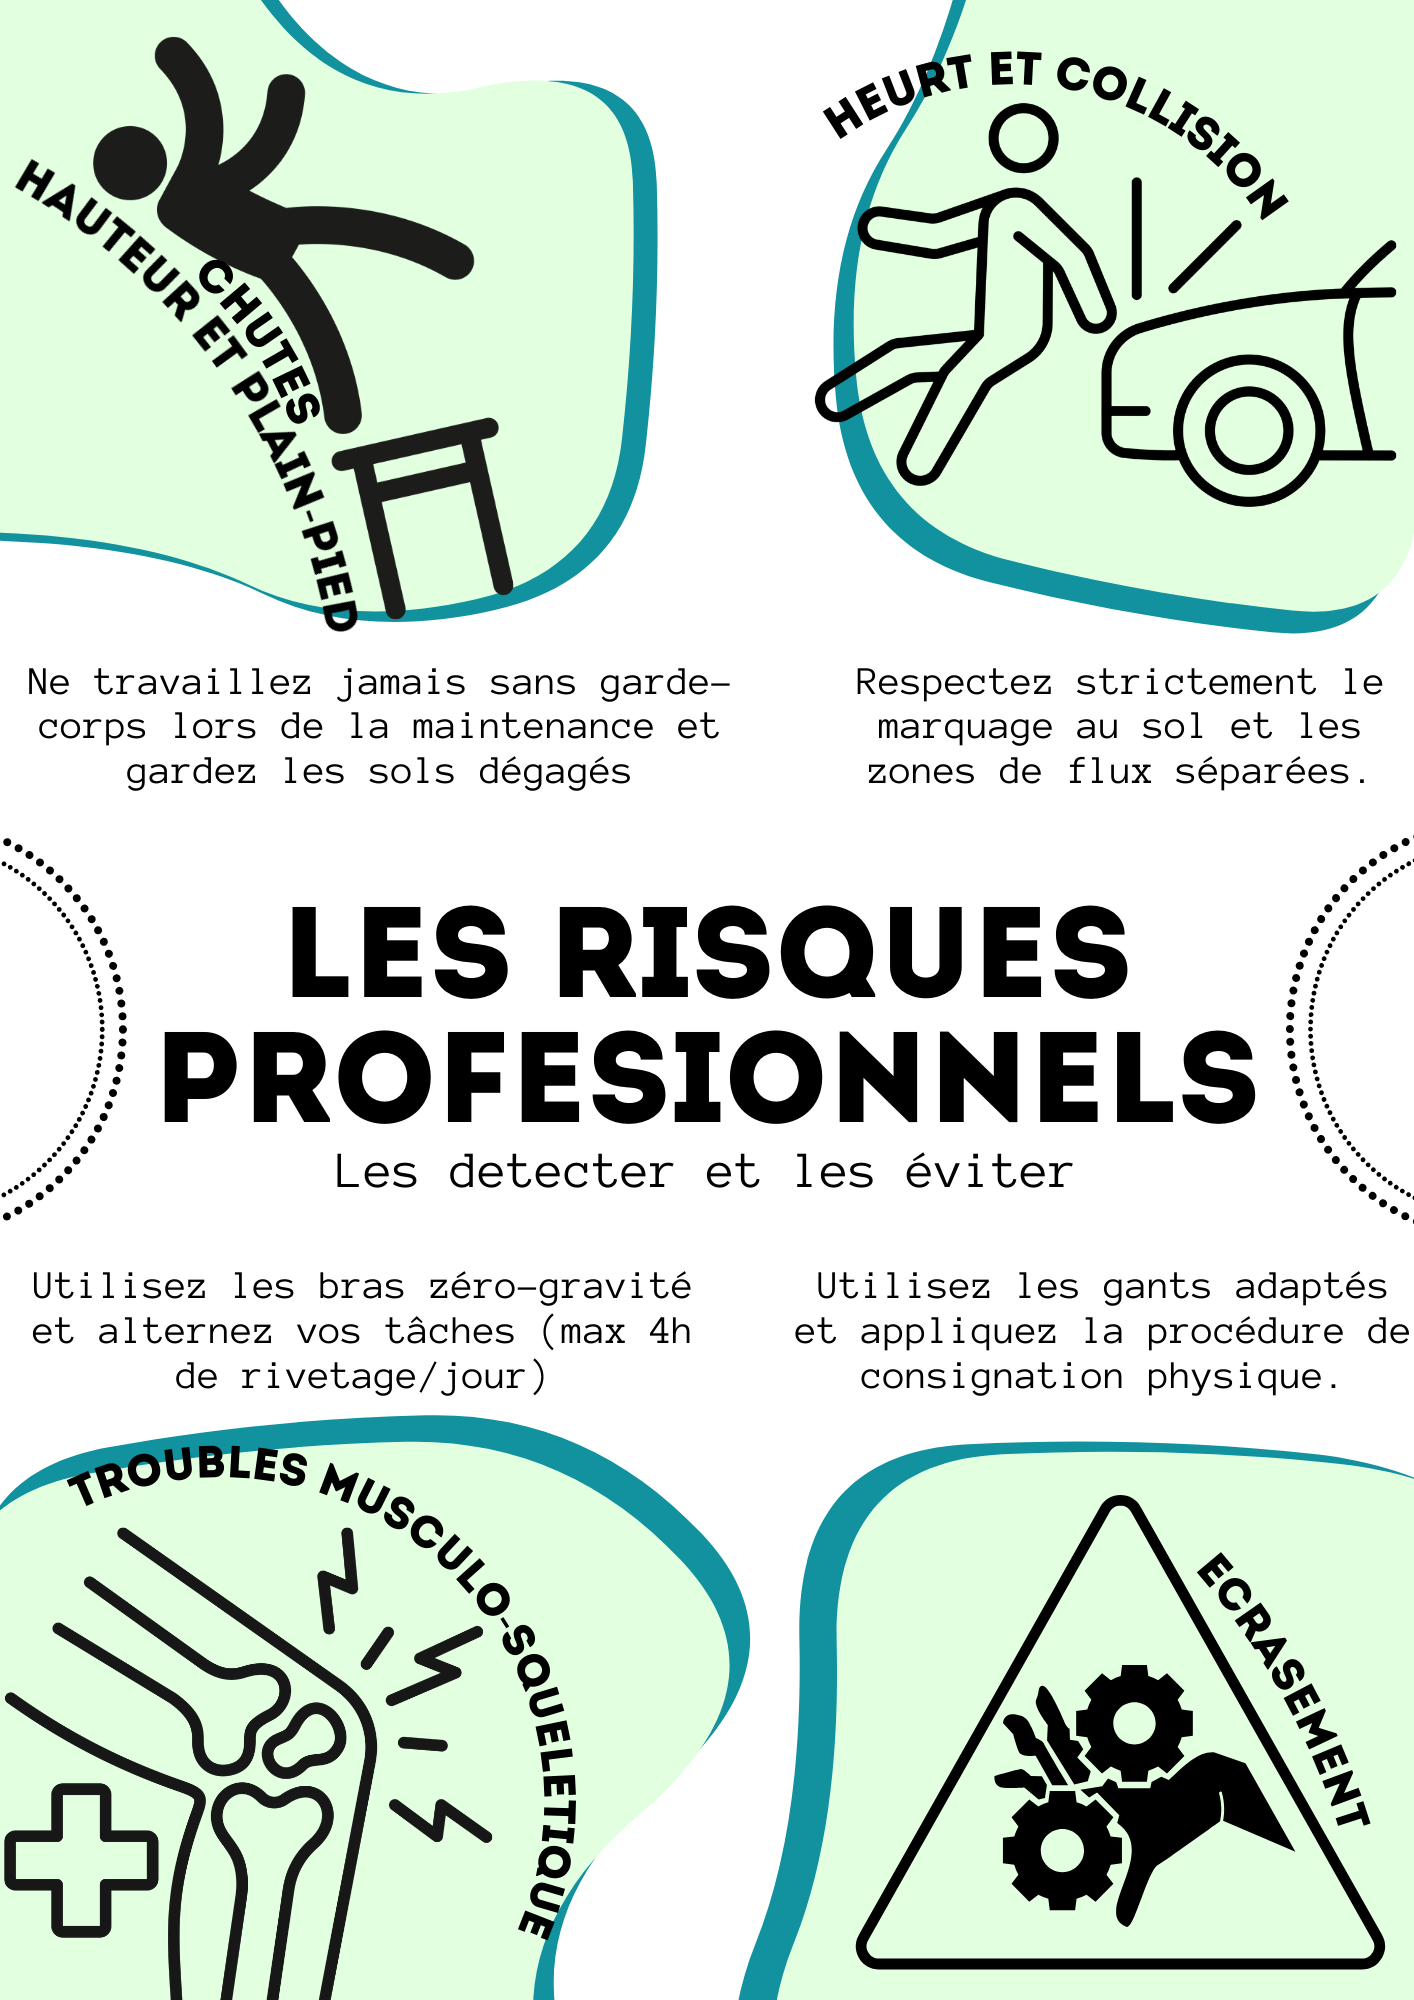
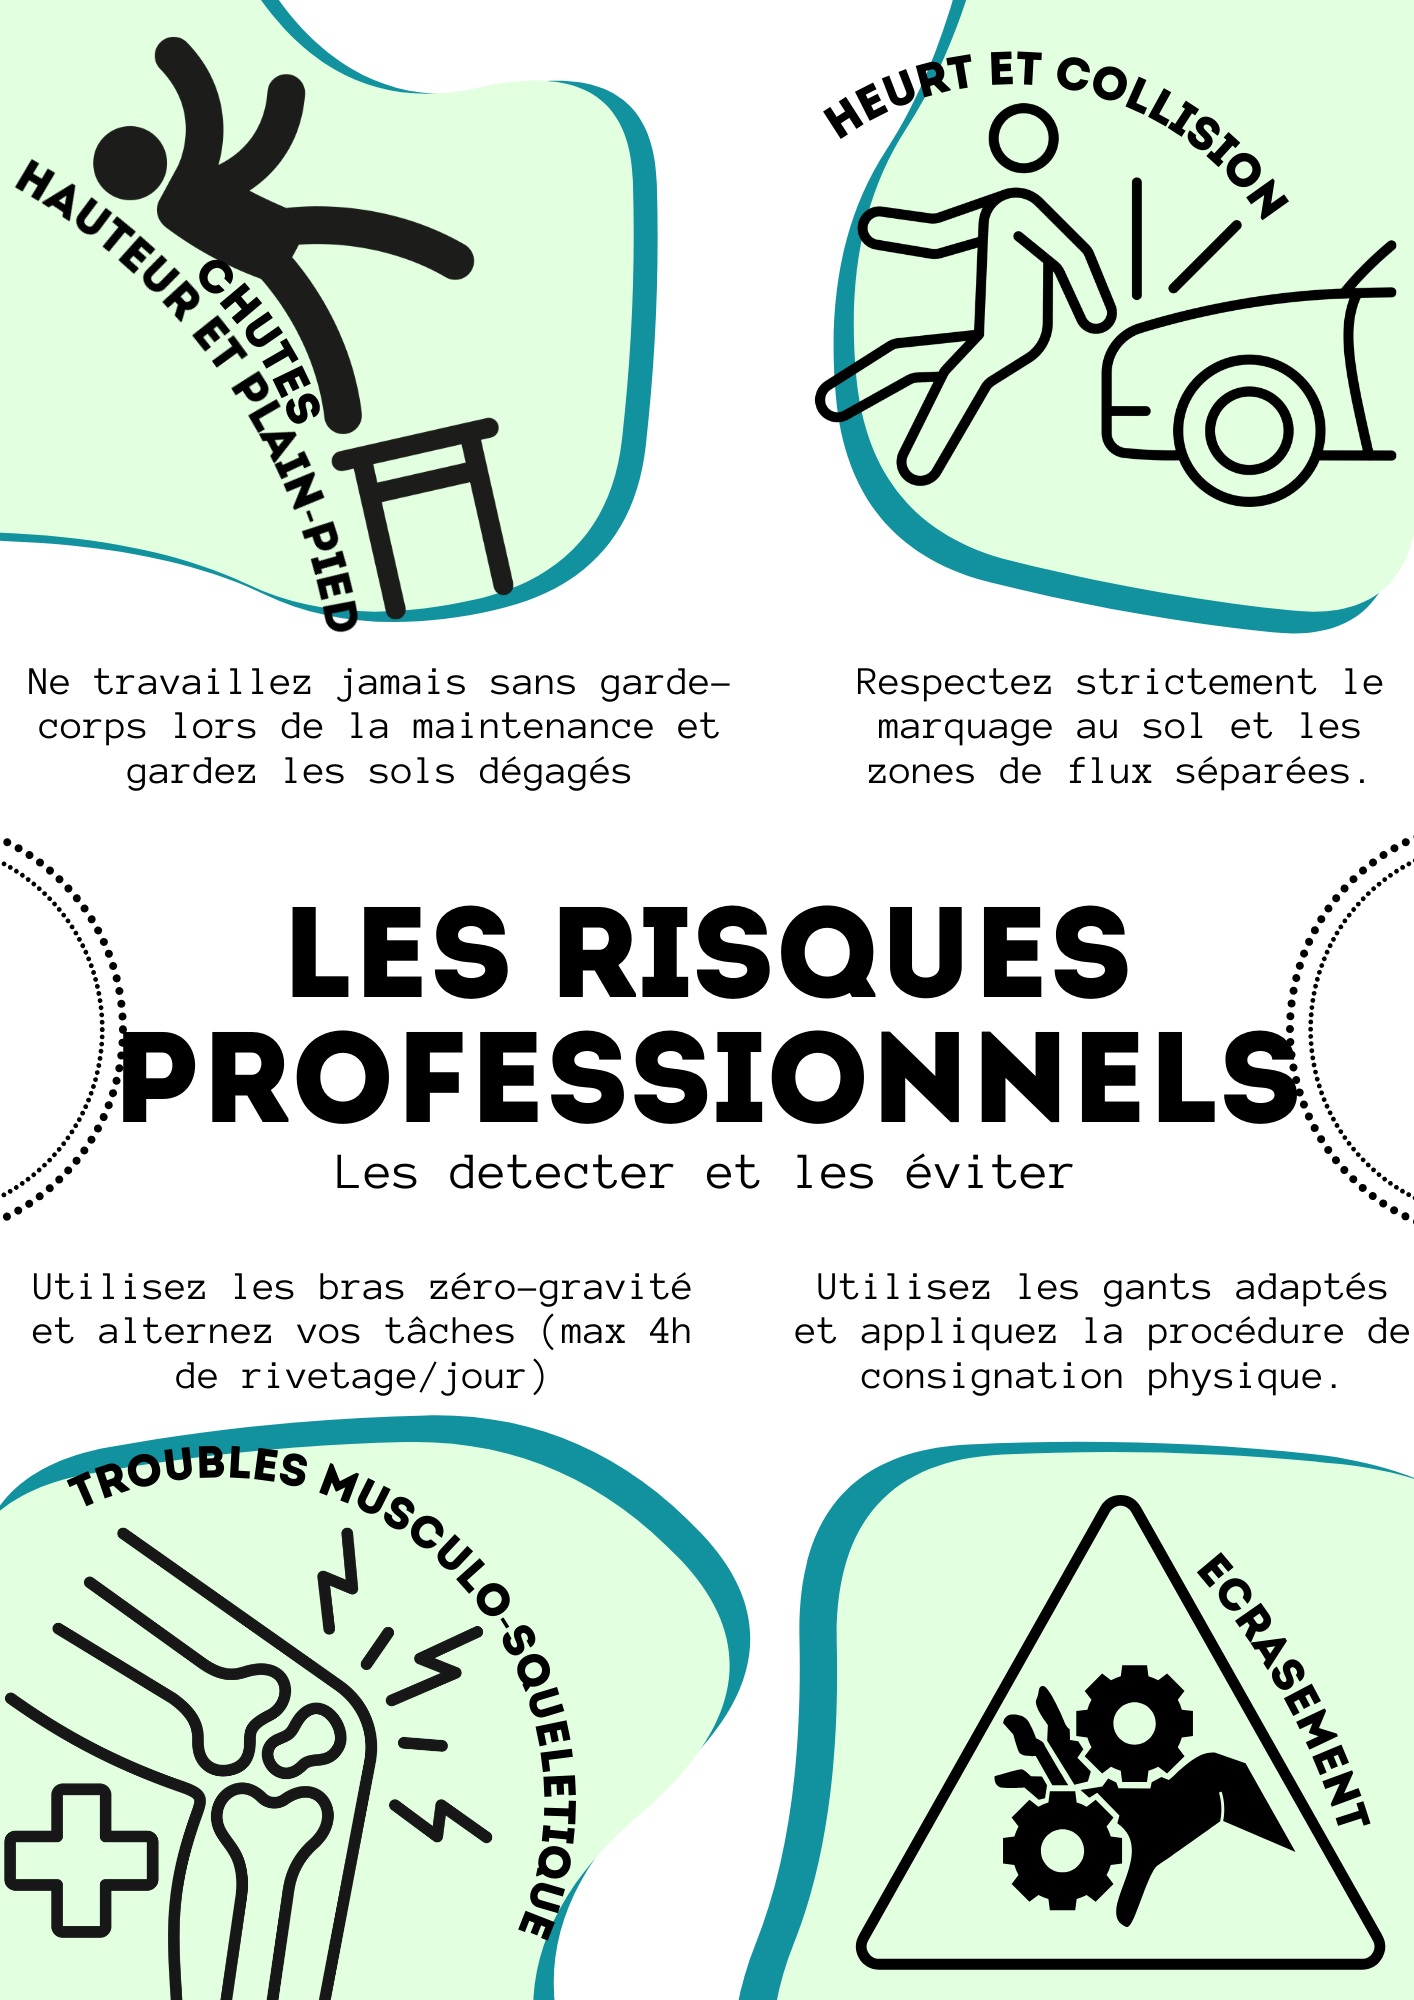
Fix capitalization for consistency in affiches.html and index.html

diff --git a/index.html b/index.html
@@ -430,17 +430,17 @@
 
 <main>
     <section id="constat" class="reveal">
-        <h2>L'Urgence en Chiffres</h2>
+        <h2>L'urgence en chiffres</h2>
         <div class="hero-grid">
             <div class="alert-card">
                 <h3>Le paradoxe mortel</h3>
                 <p>La fréquence des accidents semble stable, mais leur <strong>gravité explose</strong>. Nous ne voyons pas la réalité du terrain.</p>
                 <div style="margin-top: 20px; display: grid; gap: 15px;">
                     <div style="background: #d4f7d2; padding: 15px; border-radius: 10px; border-left: 4px solid var(--accent);">
-                        <strong>Impact Business :</strong> Impossibilité d'obtenir le label RSE exigé par Flygenix pour tripler le CA (100M€ > 300M€).
+                        <strong>Impact business :</strong> Impossibilité d'obtenir le label RSE exigé par Flygenix pour tripler le CA (100M€ > 300M€).
                     </div>
                     <div style="background: #d4f7d2; padding: 15px; border-radius: 10px; border-left: 4px solid var(--primary);">
-                        <strong>Perte Capital Humain :</strong> Départ d'experts clés (Ex: C. Blini) pour inaptitude.
+                        <strong>Perte capital humain :</strong> Départ d'experts clés (Ex: C. Blini) pour inaptitude.
                     </div>
                 </div>
             </div>
@@ -476,14 +476,14 @@
     </section>
 
     <section id="plan" class="reveal">
-        <h2>Plan de Bataille</h2>
+        <h2>Plan de bataille</h2>
         <div class="timeline">
             
             <div class="container left reveal">
                 <div class="content">
                     <span class="badge badge-red">Mois 0-3 : URGENCE VITALE</span>
-                    <h3 style="margin-bottom: 10px;">Hémostase & Conformité</h3>
-                    <p style="font-size: 0.9rem; color: #64748b; margin-bottom: 15px;">Cible : Risque mortel & Burnout Maintenance</p>
+                    <h3 style="margin-bottom: 10px;">Hémostase & conformité</h3>
+                    <p style="font-size: 0.9rem; color: #64748b; margin-bottom: 15px;">Cible : risque mortel & burnout maintenance</p>
                     <ul style="list-style: none; text-align: left;">
                         <li style="margin-bottom: 8px;">🛑 Stopper l'hémorragie des heures supp.</li>
                         <li style="margin-bottom: 8px;">🔒 Cadenassage physique inviolable (LOTO)</li>
@@ -495,10 +495,10 @@
             <div class="container right reveal">
                 <div class="content">
                     <span class="badge badge-orange">Mois 3-6 : TECHNIQUE</span>
-                    <h3 style="margin-bottom: 10px;">Chirurgie du Poste</h3>
-                    <p style="font-size: 0.9rem; color: #64748b; margin-bottom: 15px;">Cible : Éradiquer les TMS à la source</p>
+                    <h3 style="margin-bottom: 10px;">Chirurgie du poste</h3>
+                    <p style="font-size: 0.9rem; color: #64748b; margin-bottom: 15px;">Cible : éradiquer les TMS à la source</p>
                     <ul style="list-style: none; text-align: left;">
-                        <li style="margin-bottom: 8px;">🔄 Cabines : Positionneurs rotatifs</li>
+                        <li style="margin-bottom: 8px;">🔄 Cabines : positionneurs rotatifs</li>
                         <li style="margin-bottom: 8px;">🦾 Bras zéro-gravité (port de charge)</li>
                         <li style="margin-bottom: 8px;">⏱ Rotation stricte (max 4h rivetage)</li>
                     </ul>
@@ -509,10 +509,10 @@
                 <div class="content">
                     <span class="badge badge-green">Long Terme : CULTURE</span>
                     <h3 style="margin-bottom: 10px;">Rééducation & QVT</h3>
-                    <p style="font-size: 0.9rem; color: #64748b; margin-bottom: 15px;">Cible : Prévention durable</p>
+                    <p style="font-size: 0.9rem; color: #64748b; margin-bottom: 15px;">Cible : prévention durable</p>
                     <ul style="list-style: none; text-align: left;">
-                        <li style="margin-bottom: 8px;">📣 Référents "Presque-Accidents"</li>
-                        <li style="margin-bottom: 8px;">🪑 Bureaux assis-debout & Ergonomie</li>
+                        <li style="margin-bottom: 8px;">📣 Référents "presque-accidents"</li>
+                        <li style="margin-bottom: 8px;">🪑 Bureaux assis-debout & ergonomie</li>
                     </ul>
                 </div>
             </div>
@@ -524,7 +524,7 @@
 <footer>
     <div style="max-width: 600px; margin: 0 auto;">
         <p style="font-weight: 700; color: white;">ELYNDRIS MONITORING</p>
-        <p>Challenge INRS 2026 - Rapport Stratégique de Sécurité</p>
+        <p>Challenge INRS 2026 - Rapport stratégique de sécurité</p>
         <div style="height: 1px; background: #334155; margin: 20px 0;"></div>
         <p style="font-size: 0.8rem;">Propulsé par une vision de zéro accident.</p>
     </div>

diff --git a/affiches.html b/affiches.html
@@ -437,7 +437,7 @@
 
 <main>
     <section class="reveal">
-        <h2>Affiches de Prévention</h2>
+        <h2>Affiches de prévention</h2>
         <p class="section-subtitle">Supports visuels au format A4 — à afficher dans les espaces de travail Flygenix.</p>
 
         <div class="affiches-grid">
@@ -448,7 +448,7 @@
                     <img src="Affiche_cool.png" alt="Affiche de prévention SST">
                 </div>
                 <div class="affiche-info">
-                    <p class="affiche-title">Affiche prévention SST</p>
+                    <p class="affiche-title">Les risques professionnels</p>
                     <p class="affiche-meta">Format A4 · PNG</p>
                     <a href="Affiche_cool.png" download class="affiche-download">
                         ↓ Télécharger
@@ -461,7 +461,7 @@
                     <img src="Affiche_cool1.png" alt="Affiche de prévention SST">
                 </div>
                 <div class="affiche-info">
-                    <p class="affiche-title">Affiche prévention SST</p>
+                    <p class="affiche-title">Les risques professionnels</p>
                     <p class="affiche-meta">Format A4 · PNG</p>
                     <a href="Affiche_cool1.png" download class="affiche-download">
                         ↓ Télécharger
